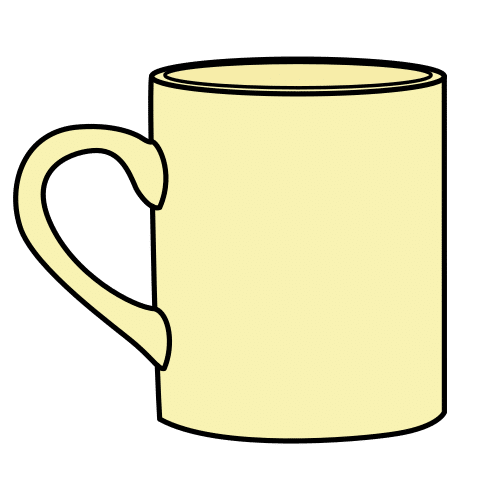
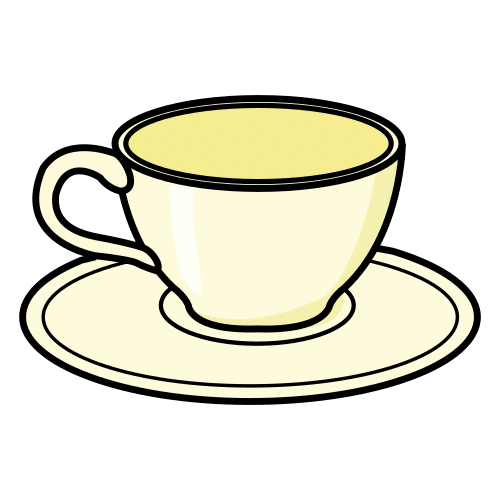
Tasse-Bild verbessern, Wort-Umbruch verhindern, Bildschirm ans iPad anpassen
- Tasse: neues ARASAAC-Bild (2581, Tasse mit Untertasse) statt 9091 - bisher
  kaum vom Becher zu unterscheiden
- Wörter brechen nie mehr mitten im Wort um: white-space:nowrap +
  fitTextToWidth()/scheduleFit() in app.js verkleinern die Schrift per JS,
  bis das Wort in eine Zeile passt (betraf v. a. lange Wörter wie
  'Gartenschere'). scheduleFit() korrigiert zusätzlich nach
  document.fonts.ready, da Poppins asynchron nachlädt und die Erstmessung
  sonst mit der schmaleren Systemschrift stattfand
- Bildschirme (v. a. Bild-Übung/Blitzlesen) passen jetzt ohne Scrollen aufs
  iPad: .screen auf 100dvh fixiert statt nur min-height, feste Mindesthöhen
  bei .word-card/.quiz-grid entfernt (flex:1; min-height:0 statt fixer px)
- CLAUDE.md entsprechend ergänzt

diff --git a/style.css b/style.css
@@ -13,7 +13,11 @@ body { margin: 0; min-height: 100vh; }
 button { min-height: 62px; border: 3px solid #102a43; border-radius: 16px; padding: 14px 20px; background: #fff; color: #102a43; font-weight: 800; font-size: clamp(1.05rem, 3vw, 1.35rem); cursor: pointer; touch-action: manipulation; font: inherit; }
 button:active { transform: scale(.98); }
 button:focus-visible { outline: 5px solid #f5a623; outline-offset: 3px; }
-.screen { width: min(100%, 900px); min-height: 100vh; margin: auto; padding: max(24px, env(safe-area-inset-top)) clamp(20px, 5vw, 52px) max(28px, env(safe-area-inset-bottom)); display: flex; flex-direction: column; gap: 22px; }
+/* Höhe an den Bildschirm gekoppelt (nicht nur min-height), damit die
+   flexiblen Bereiche (word-card/quiz-grid) sich einpassen statt die Seite
+   scrollbar zu machen - Ziel: alles passt ohne Scrollen aufs iPad.
+   overflow-y:auto bleibt als Sicherheitsnetz für seltene Extremfälle. */
+.screen { width: min(100%, 900px); height: 100vh; height: 100dvh; overflow-y: auto; margin: auto; padding: max(16px, env(safe-area-inset-top)) clamp(20px, 5vw, 52px) max(20px, env(safe-area-inset-bottom)); display: flex; flex-direction: column; gap: clamp(12px, 2.5vh, 22px); }
 h1, h2, p { margin: 0; }
 h1 { font-size: clamp(2rem, 8vw, 3.4rem); text-align: center; }
 h2 { font-size: clamp(1.5rem, 5vw, 2.1rem); }
@@ -30,8 +34,12 @@ h2 { font-size: clamp(1.5rem, 5vw, 2.1rem); }
 .topbar { display: flex; align-items: center; justify-content: space-between; gap: 12px; }
 .topbar button { min-height: 54px; padding: 10px 15px; }
 .progress { font-size: clamp(1.05rem, 3vw, 1.3rem); font-weight: 800; text-align: center; }
-.word-card { flex: 1; min-height: 280px; display: flex; flex-direction: column; align-items: center; justify-content: center; gap: 20px; padding: 24px; border: 5px solid #102a43; border-radius: 28px; background: #fff; text-align: center; box-shadow: 0 7px 0 #b9d7f4; }
-.word { overflow-wrap: anywhere; font-size: clamp(3.25rem, 14vw, 7.5rem); font-weight: 900; line-height: 1.05; }
+.word-card { flex: 1; min-height: 0; overflow: hidden; display: flex; flex-direction: column; align-items: center; justify-content: center; gap: 20px; padding: 24px; border: 5px solid #102a43; border-radius: 28px; background: #fff; text-align: center; box-shadow: 0 7px 0 #b9d7f4; }
+/* white-space:nowrap + width:100% sind Voraussetzung dafür, dass das
+   JS (fitTextToWidth in app.js) zuverlässig erkennen kann, ob das Wort in
+   eine Zeile passt, und die Schriftgröße bei Bedarf verkleinert - Wörter
+   sollen nie umbrechen. */
+.word { width: 100%; white-space: nowrap; font-size: clamp(3.25rem, 14vw, 7.5rem); font-weight: 900; line-height: 1.05; }
 .syll-a { color: #102a43; }
 .syll-b { color: #9c1c1c; }
 .speak { width: 100%; min-height: 92px; font-size: clamp(1.35rem, 5vw, 1.85rem); }
@@ -39,9 +47,9 @@ h2 { font-size: clamp(1.5rem, 5vw, 2.1rem); }
 .nav button { min-height: 74px; }
 .finish { text-align: center; display: grid; gap: 18px; align-content: center; flex: 1; }
 .attribution { font-size: .8rem; color: #7290ab; margin: 0; }
-.quiz-word { text-align: center; font-size: clamp(2.1rem, 7vw, 3.6rem); font-weight: 900; line-height: 1.1; }
-.quiz-grid { flex: 1; min-height: 320px; display: grid; grid-template-columns: 1fr 1fr; grid-template-rows: 1fr 1fr; gap: 16px; }
-.quiz-option { min-height: 130px; display: flex; align-items: center; justify-content: center; padding: 10px; }
+.quiz-word { width: 100%; white-space: nowrap; text-align: center; font-size: clamp(2.1rem, 7vw, 3.6rem); font-weight: 900; line-height: 1.1; }
+.quiz-grid { flex: 1; min-height: 0; display: grid; grid-template-columns: 1fr 1fr; grid-template-rows: 1fr 1fr; gap: 16px; }
+.quiz-option { min-height: 0; display: flex; align-items: center; justify-content: center; padding: 10px; }
 .quiz-option img { max-width: 100%; max-height: 100%; object-fit: contain; }
 .quiz-option.correct { background: #d7f5e3; border-color: #0b6e4f; }
 .quiz-option.wrong { background: #fbe1e1; border-color: #9c1c1c; }

diff --git a/app.js b/app.js
@@ -50,6 +50,31 @@
   };
   const render = (html) => { stopSpeech(); renderGeneration++; app.innerHTML = html; };
 
+  // Verkleinert die Schrift eines Wort-Elements so lange, bis es in einer
+  // Zeile passt (kein Umbruch mitten im Wort) - setzt voraus, dass das
+  // Element per CSS white-space:nowrap + width:100% hat (siehe .word/.quiz-word).
+  const fitTextToWidth = (el, minFontSize = 26) => {
+    if (!el) return;
+    let fontSize = parseFloat(getComputedStyle(el).fontSize);
+    let guard = 0;
+    while (el.scrollWidth > el.clientWidth && fontSize > minFontSize && guard < 60) {
+      fontSize -= 2;
+      el.style.fontSize = `${fontSize}px`;
+      guard++;
+    }
+  };
+  // Poppins lädt asynchron (font-display: swap); direkt nach dem Rendern ist
+  // oft noch die etwas schmalere Systemschrift sichtbar, wodurch die Anpassung
+  // zu wenig verkleinert. Nach dem Laden der Schrift wird deshalb nochmal
+  // nachjustiert - el kann zu dem Zeitpunkt bereits durch einen Screen-Wechsel
+  // ersetzt sein, dann ist der Aufruf einfach wirkungslos.
+  const scheduleFit = (el, minFontSize) => {
+    fitTextToWidth(el, minFontSize);
+    if (document.fonts && document.fonts.ready) {
+      document.fonts.ready.then(() => fitTextToWidth(el, minFontSize));
+    }
+  };
+
   const renderWord = (entry, showSyllables) => {
     if (!showSyllables || entry.syllables.length < 2) {
       return `<span class="syll syll-a">${escapeHtml(entry.word)}</span>`;
@@ -132,6 +157,7 @@
       <p class="hint">Erst selbst lesen, dann zum Überprüfen tippen.</p>
       <div class="nav"><button id="back" ${state.index === 0 ? "disabled" : ""}>← Zurück</button><button id="next" class="secondary">${state.index === state.words.length - 1 ? "Fertig" : "Weiter →"}</button></div>
     </section>`);
+    scheduleFit(app.querySelector(".word"));
     app.querySelector("#home").addEventListener("click", home);
     app.querySelector("#speak").addEventListener("click", () => speak(entry.word));
     app.querySelector("#back").addEventListener("click", () => { if (state.index) { state.index--; practice(); } });
@@ -168,6 +194,7 @@
         <button id="speak" class="speak-mini" aria-label="Das Wort ${escapeHtml(target.word)} vorlesen">🔊</button>
       </div>
     </section>`);
+    scheduleFit(app.querySelector(".quiz-word"));
     app.querySelector("#home").addEventListener("click", home);
     app.querySelector("#speak").addEventListener("click", () => speak(target.word));
     app.querySelectorAll(".quiz-option").forEach((button) => {
@@ -247,6 +274,7 @@
       <div class="topbar"><button id="home" aria-label="Zur Startseite">⌂ Start</button><div class="progress">${blitzState.index + 1} von ${blitzState.order.length}</div></div>
       <div class="word-card"><div class="word">${renderWord(entry, settings.syllables)}</div></div>
     </section>`);
+    scheduleFit(app.querySelector(".word"));
     app.querySelector("#home").addEventListener("click", home);
     const gen = renderGeneration;
     setTimeout(() => { if (renderGeneration === gen) blitzMask(); }, blitzState.duration);

diff --git a/wordlists.js b/wordlists.js
@@ -39,7 +39,7 @@ window.WORDLISTS = [
       { id: "de-gabel", word: "Gabel", syllables: ["Ga", "bel"], conceptId: "fork", image: arasaac("fork", 2588) },
       { id: "de-messer", word: "Messer", syllables: ["Mes", "ser"], conceptId: "knife", image: arasaac("knife", 4931) },
       { id: "de-topf", word: "Topf", syllables: ["Topf"], conceptId: "pot", image: arasaac("pot", 9086) },
-      { id: "de-tasse", word: "Tasse", syllables: ["Tas", "se"], conceptId: "cup", image: arasaac("cup", 9091) },
+      { id: "de-tasse", word: "Tasse", syllables: ["Tas", "se"], conceptId: "cup", image: arasaac("cup", 2581) },
       { id: "de-glas", word: "Glas", syllables: ["Glas"], conceptId: "glass", image: arasaac("glass", 2610) },
       { id: "de-brot", word: "Brot", syllables: ["Brot"], conceptId: "bread", image: arasaac("bread", 10230) },
       { id: "de-milch", word: "Milch", syllables: ["Milch"], conceptId: "milk", image: arasaac("milk", 2445) },
@@ -212,7 +212,7 @@ window.WORDLISTS = [
           { id: "de-teller", word: "Teller", syllables: ["Tel", "ler"], conceptId: "plate", image: arasaac("plate", 16857) },
           { id: "de-glas", word: "Glas", syllables: ["Glas"], conceptId: "glass", image: arasaac("glass", 2610) },
           { id: "de-becher", word: "Becher", syllables: ["Be", "cher"], conceptId: "mug", image: arasaac("mug", 2582) },
-          { id: "de-tasse", word: "Tasse", syllables: ["Tas", "se"], conceptId: "cup", image: arasaac("cup", 9091) },
+          { id: "de-tasse", word: "Tasse", syllables: ["Tas", "se"], conceptId: "cup", image: arasaac("cup", 2581) },
           { id: "de-loeffel", word: "Löffel", syllables: ["Löf", "fel"], conceptId: "spoon", image: arasaac("spoon", 2362) },
           { id: "de-gabel", word: "Gabel", syllables: ["Ga", "bel"], conceptId: "fork", image: arasaac("fork", 2588) },
           { id: "de-messer", word: "Messer", syllables: ["Mes", "ser"], conceptId: "knife", image: arasaac("knife", 4931) },

diff --git a/CLAUDE.md b/CLAUDE.md
@@ -163,6 +163,18 @@ beiden Quell-IDs dokumentieren, z. B. `arasaac("drink_menu", "5513+4575 (kombini
   des doppelstöckigen "a" der Systemschrift) – besser lesbar für Schüler:innen.
   Ähnelt optisch Century Gothic, ist aber frei lizenziert (SIL Open Font
   License) und daher selbst hostbar.
+- **Bildschirm-Layout**: `.screen` ist auf `100dvh` fixiert (nicht nur
+  `min-height`) und die flexiblen Bereiche (`.word-card`, `.quiz-grid`) haben
+  `min-height: 0`, damit sich alles ins iPad-Display einpasst, ohne dass
+  gescrollt werden muss. `overflow-y: auto` bleibt als Sicherheitsnetz für
+  seltene Extremfälle.
+- **Wort-Anzeige bricht nie um**: `.word`/`.quiz-word` haben `white-space:
+  nowrap`; `fitTextToWidth()`/`scheduleFit()` in `app.js` verkleinern die
+  Schrift per JS so weit, bis ein Wort in eine Zeile passt (z. B. bei langen
+  Wörtern wie "Gartenschere"). `scheduleFit()` prüft zusätzlich nochmal nach
+  `document.fonts.ready`, weil Poppins asynchron nachlädt (`font-display:
+  swap`) und die anfängliche Messung sonst mit der schmaleren Systemschrift
+  stattfindet.
 - Sprachausgabe: Web Speech API, `de-DE`, ausgelöst nur durch Tastendruck
   (iOS-Safari-Vorgabe). Rate `0.78` für gut verständliches, nicht zu schnelles
   Vorlesen.
